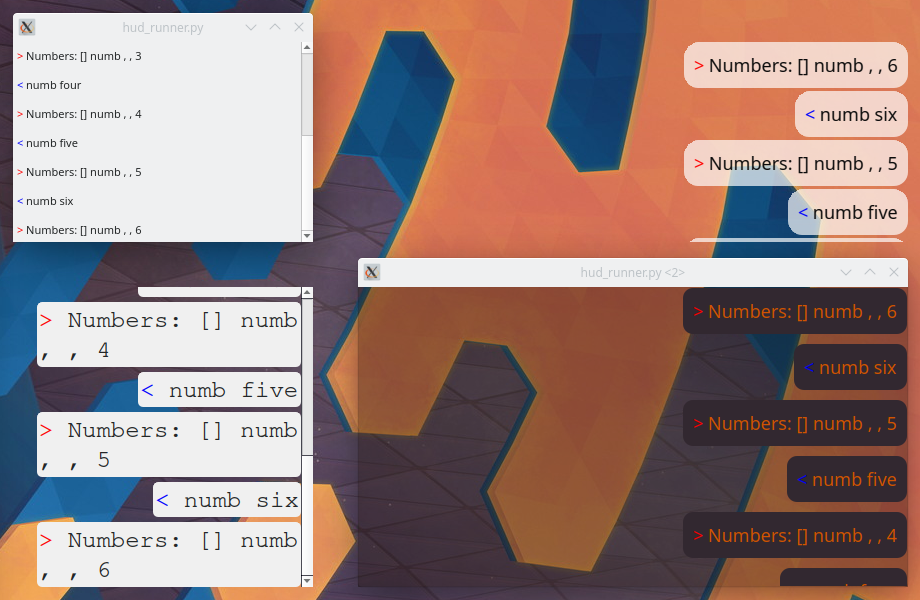
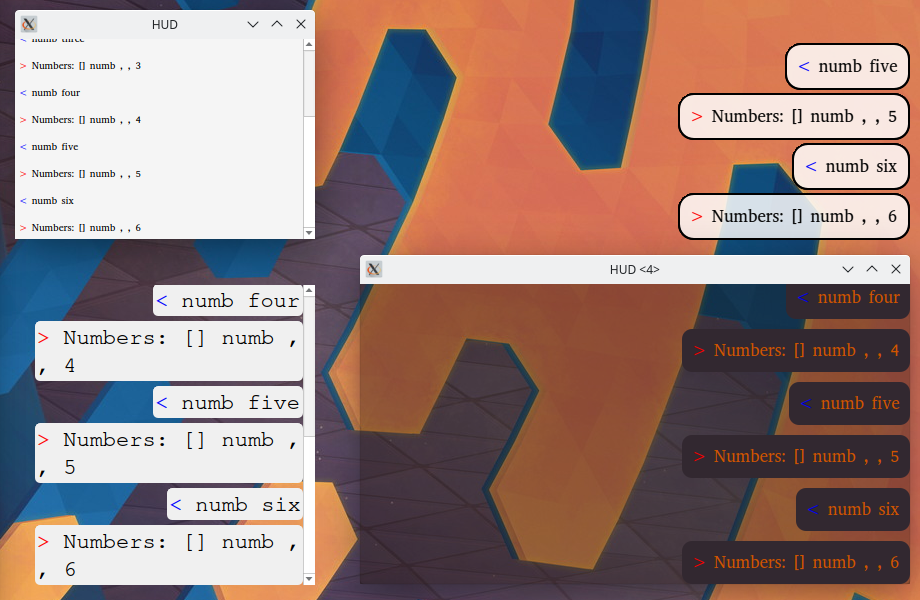
Added test_runner.py and updated README.md

diff --git a/test_runner.py b/test_runner.py
@@ -1,0 +1,170 @@
+import sys
+from PySide2.QtCore import Qt, QSize
+from PySide2.QtWidgets import QApplication, QStyle
+from PySide2.QtGui import QColor, QPalette
+
+from unittest.mock import Mock, patch
+        
+def hud_test():
+    attrs = {'settings.HUD_TITLE': "HUD"}
+    mock = Mock(**attrs)
+    with patch.dict('sys.modules', {
+            'castervoice' : mock,
+            'castervoice.lib' : mock,
+            'castervoice.lib.merge' : mock,
+            'castervoice.lib.merge.communication' : mock,
+            'castervoice.lib.merge.communication.Communicator' : mock,
+            'dragonfly' : mock,
+            }):
+        from hud import HUDWindow
+        huds_launch(HUDWindow)    
+            
+def huds_launch(HUDWindow):
+    app = QApplication(sys.argv)
+    windows = [
+            HUDWindow(Mock()),
+            HUDWindow(Mock()),
+            HUDWindow(Mock()),
+            HUDWindow(Mock()),
+        ]
+    
+    setup_themes(windows)
+    
+    for window in windows:
+        window.show()
+    
+    messages = [
+        '<font color="blue">&lt;</font> numb one',
+        '<font color="red">&gt;</font> Numbers: [<long>] numb <wnKK>, , 1',
+        '<font color="blue">&lt;</font> numb two',
+        '<font color="red">&gt;</font> Numbers: [<long>] numb <wnKK>, , 2',
+        '<font color="blue">&lt;</font> numb three',
+        '<font color="red">&gt;</font> Numbers: [<long>] numb <wnKK>, , 3',
+        '<font color="blue">&lt;</font> numb four',
+        '<font color="red">&gt;</font> Numbers: [<long>] numb <wnKK>, , 4',
+        '<font color="blue">&lt;</font> numb five',
+        '<font color="red">&gt;</font> Numbers: [<long>] numb <wnKK>, , 5',
+        '<font color="blue">&lt;</font> numb six',
+        '<font color="red">&gt;</font> Numbers: [<long>] numb <wnKK>, , 6',
+        ]
+    
+    for i, message in enumerate(messages):
+        for window in windows:
+            window.output.append(message)
+
+    app.exec_()
+
+def setup_themes(windows):
+    theme_window(
+                window  = windows[0],   
+                window_height = 200,
+                alignment = Qt.AlignHCenter | Qt.AlignVCenter,  
+                background_color = QColor(245, 245, 245, 255),         
+                font_size = 8,                                      
+                margins = 4,                                        
+                scrollbar = True,
+                frameless = False,
+            )
+    windows[0].output.setAlignment(Qt.AlignLeft | Qt.AlignBottom)
+
+    theme_window(
+                window = windows[1], 
+                window_height = 200,
+                alignment = Qt.AlignRight | Qt.AlignVCenter, 
+                rect_color = QColor(255, 255, 255, 150),     
+                border_radius = 14,                        
+                outline_color = QColor(0, 0, 0, 255),      
+                outline_width = 2,                         
+                force_disable_background = True,
+                spacing = 3,
+                #frameless = False,
+            )
+            
+    theme_window(
+                window = windows[2],  
+                alignment = Qt.AlignHCenter | Qt.AlignBottom,   
+                rect_color = QColor(240, 240, 240),              
+                font_size = 18,                                     
+                margins = 2,                                    
+                force_disable_background = True,  
+                scrollbar = True,     
+                font_family = "Courier"
+            )
+            
+    theme_window(
+                window  = windows[3],
+                window_width = 550,
+                alignment = Qt.AlignRight | Qt.AlignBottom,     
+                rect_color = QColor(50, 40, 48),                 
+                background_color = QColor(21, 8, 0, 100),              
+                text_color = QColor(210, 84, 0),                 
+                border_radius = 10,  
+                spacing = 10,
+                #frameless = False,
+            )
+    
+def theme_window(
+                window, 
+                alignment,
+                window_width = 300,
+                window_height = 300,
+                rect_color = QColor(255, 255, 255, 0),
+                background_color = QColor(255, 255, 255, 0),
+                text_color = QColor(0, 0, 0),
+                font_size = 14,
+                border_radius = 5,
+                margins = 10,
+                spacing = 5,
+                outline_color = QColor(0, 0, 0, 0),
+                outline_width = 0,
+                scrollbar = False,
+                force_disable_background = False,
+                font_family = "",
+                frameless = True,
+            ):
+            
+    size = QSize(window_width, window_height)
+    screen_geometry = qApp.primaryScreen().geometry()
+    if frameless:
+        screen_geometry.adjust(400, 160, -30, -30)
+    else:
+        screen_geometry.adjust(400, 130, -30, -60)
+    
+    window.setGeometry(
+        QStyle.alignedRect(
+            Qt.LeftToRight,
+            alignment,
+            size,
+            screen_geometry
+        )
+    )
+    
+    palette = window.palette()
+    palette.setColor(QPalette.Base, rect_color)
+    palette.setColor(QPalette.Window, background_color)
+    palette.setColor(QPalette.Text, text_color)
+    window.setPalette(palette)
+    
+    window.output.setTextEditBorderRadius(border_radius)
+    window.output.setTextEditMargins(margins)
+    window.output.setSpacing(spacing)
+    
+    window.output.setRectOutlineColor(outline_color)
+    window.output.setRectOutlineWidth(outline_width)
+    
+    if scrollbar:
+        window.output.setVerticalScrollBarPolicy(Qt.ScrollBarAlwaysOn)
+    else:
+        window.output.setVerticalScrollBarPolicy(Qt.ScrollBarAlwaysOff)
+    window.output.setForceDisableBackground(force_disable_background)
+    
+    font = window.font()
+    font.setPointSize(font_size)
+    font.setFamily(font_family)
+    window.setFont(font)
+    window.repaint()
+    window.output.updateTextEdits()
+    window.setWindowFlag(Qt.FramelessWindowHint, frameless)
+    
+if __name__ == '__main__':
+    hud_test()

diff --git a/hud.py b/hud.py
@@ -36,10 +36,10 @@ from PySide2.QtWidgets import QStyle
 
 # window
 WINDOW_FRAMELESS = True
-WIDTH = 300
+WIDTH = 350
 HEIGHT = 200
 WINDOW_OFFSET_X = 20
-WINDOW_OFFSET_Y = 50
+WINDOW_OFFSET_Y = 30
 WINDOW_ALIGNMENT = Qt.AlignRight | Qt.AlignBottom
 SCREEN = 0
 # command log
@@ -49,14 +49,14 @@ SCROLL_BAR_OFF = False
 DRAW_FRAME = False
 BORDER_RADIUS = 5
 RECT_OUTLINE_COLOR = (0, 0, 0, 255)
-RECT_OUTLINE_WIDTH = 0
+RECT_OUTLINE_WIDTH = 2
 RECT_MARGINS = 4
 SPACING = 5
 FORCE_DISABLE_BACKGROUND = False
 # palette
-BACKGROUND_COLOR = (0, 0, 0, 50)
+BACKGROUND_COLOR = (150, 50, 50, 10)
 TEXT_COLOR = None
-FONT_SIZE = None
+FONT_SIZE = 9
 FONT_FAMILY = ""
 RECT_COLOR = None
                         

diff --git a/README.md b/README.md
@@ -9,6 +9,16 @@ Dragging by background | Clicking through backgroundless window
 | :---: | :---: |
 <img src="./art/dragging.gif"/> | <img src="./art/click_through.gif"/>
 
+## Usage Instructions:
+* Clone this repo.
+### With Caster
+* You have to be using Caster with hud support. Currently that's the [DropPy2 branch](https://github.com/dictation-toolbox/Caster/tree/DropPy2).
+* In settings.toml ([user dir docs](https://caster.readthedocs.io/en/latest/readthedocs/User_Dir/Caster_User_Dir/)) change HUD_PATH to point to the hud.py gotten from this repo.
+* If Caster is already running with a hud instance. Close hud and reboot caster.
+### Testing
+* requirements.txt in master doesn't include PySide2, so if you've installed from that, you might need to run `pip install PySide2` or `python -m pip install PySide2`
+* Running `test_runner.py` will open 4 windows with different settings (like in the screenshots)
+
 ## Settings explanation: 
 ### window
 * WINDOW_FRAMELESS \<bool> - setting to True, disables window decorations (frame, titlebar) (macOS and Windows require this to be True, for a transparent background)
